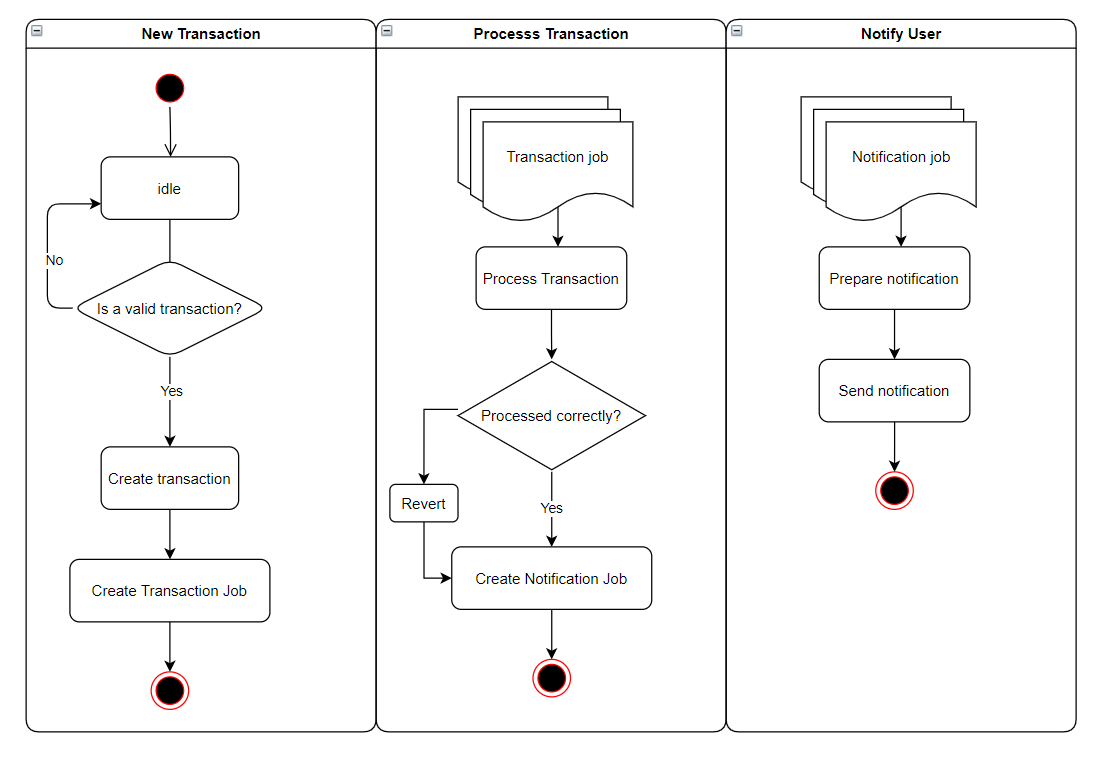
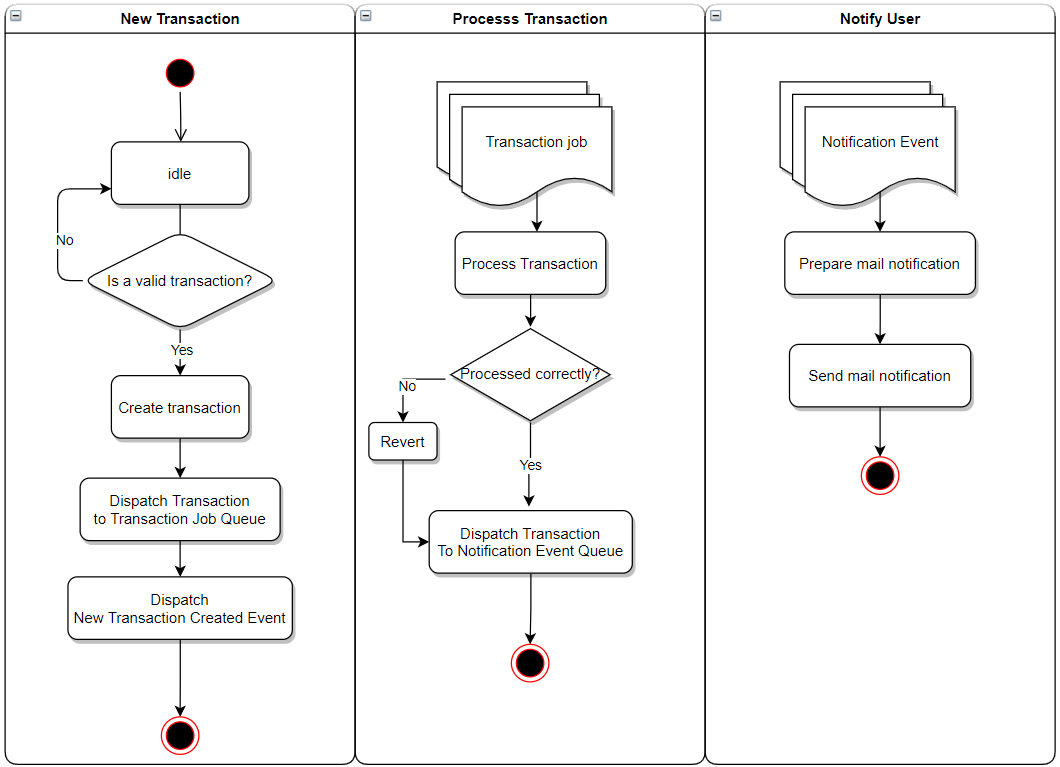
docs(readme): fix typos & update achitecture

diff --git a/README.md b/README.md
@@ -11,9 +11,9 @@
 
 This is a simple API to transfer money between users.
 
-## Architecture
+## :triangular_ruler: Architecture
 
-This system uses an Event Driven Architecture with jobs & queues.
+This system uses an Event Driven Architecture with `events`, `jobs` & `queues`.
 
 ![Architecture](architecture.png)
 
@@ -44,6 +44,9 @@ cd t-simple-money-transfer-api
 
 ```sh
 docker-compose up -d
+```
+
+```sh
 docker-compose exec php php artisan queue:listen --queue=transactionJobQueue,notificationEventQueue --timeout=60 --sleep=3 --tries=3
 ```
 
@@ -77,7 +80,7 @@ docker-compose exec -t php ./vendor/bin/phpunit
 -   [ ] Improve code organization with Clean Architectures
 -   [ ] Improve authentication with Laravel Passport
 -   [ ] Refactor Transaction & Notification systems into isolated microservices
--   [ ] Migrato to Cloud, like AWS, to be able to scale and use things like SQS, Lambdas & SNS.
+-   [ ] Migrate to to Cloud, like AWS, to be able to scale and use things like SQS, Lambdas & SNS.
 
 ## License
 
